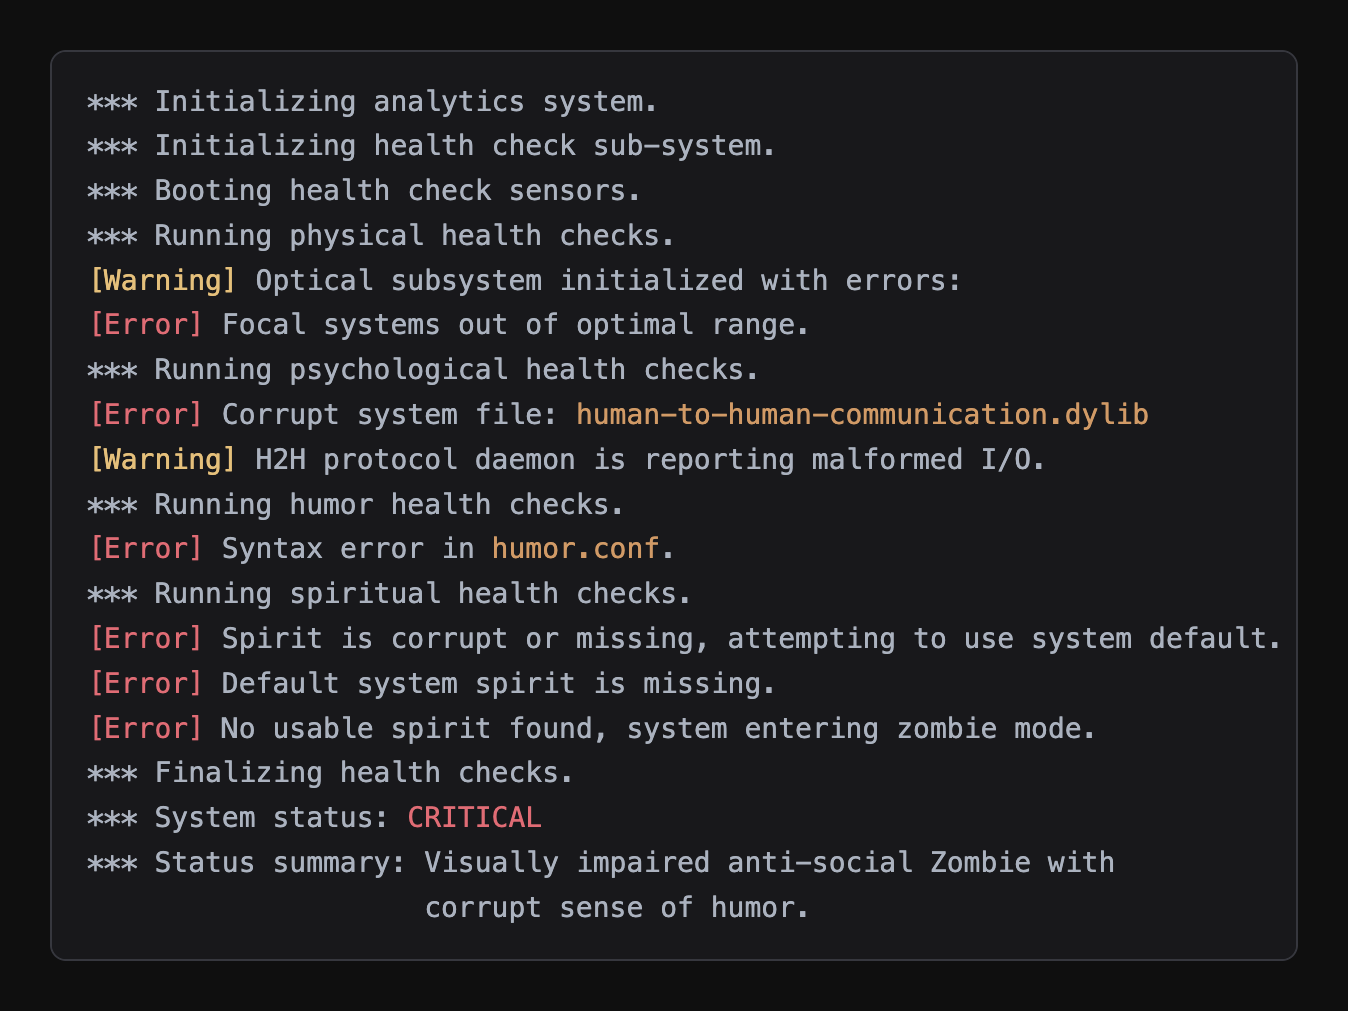
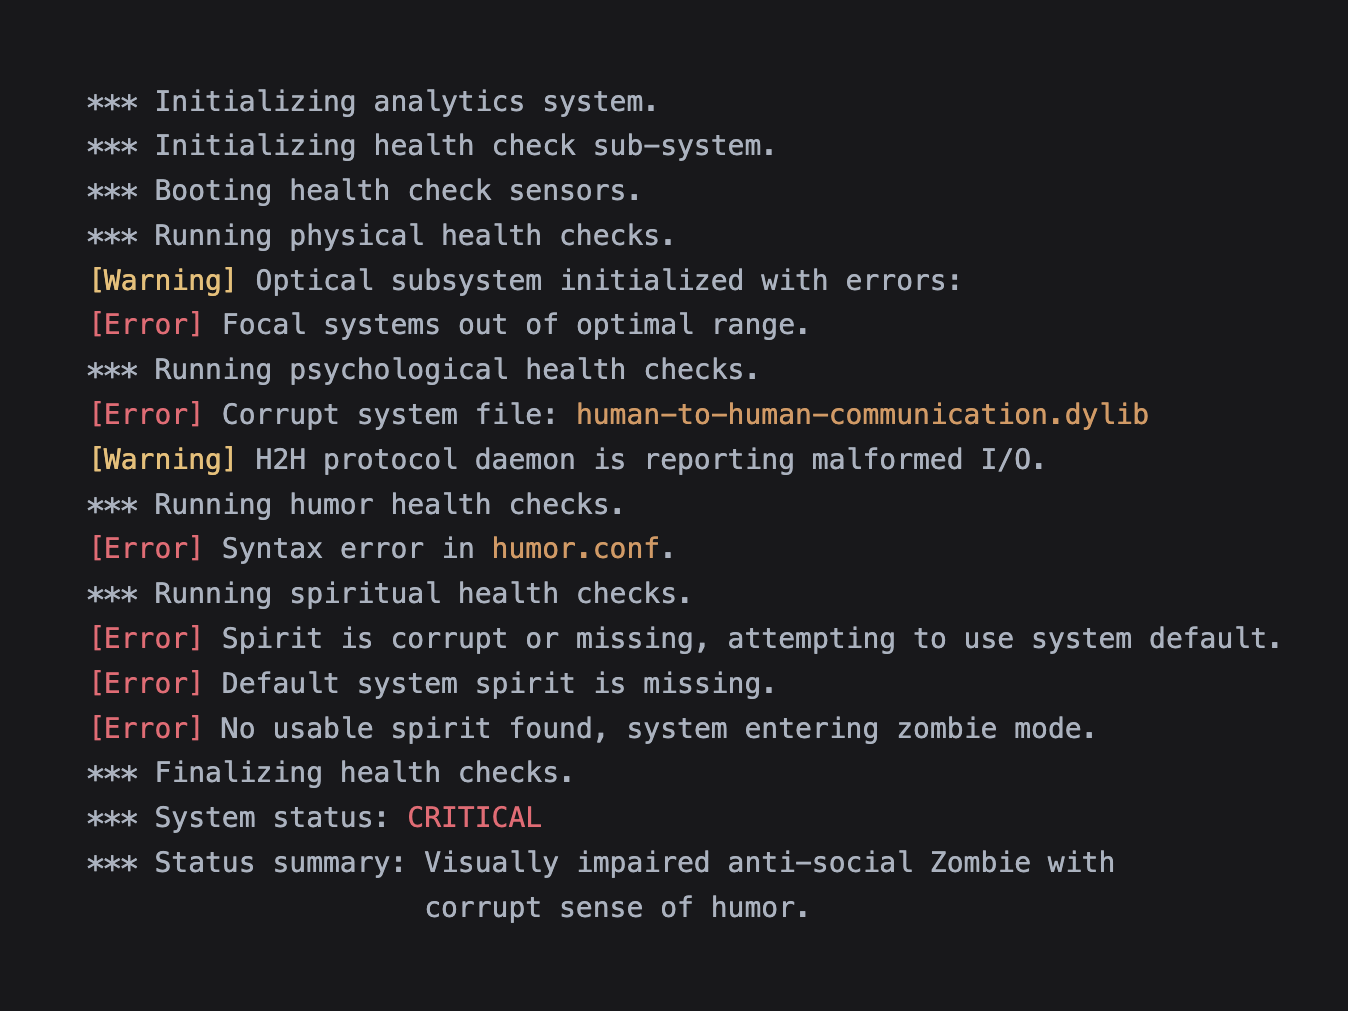
feat: support oversized MDX figures
Some post content needs more precise width control than the fixed wide figure
preset allows. Let centered percentage-sized Figure components exceed 100% while
staying centered and capped to the viewport gutter.

Also reset nested pretty-code margins for fenced code blocks inside Figure,
allow all MDX components in Markdownlint, and convert the How Are You post to
MDX so its log block can use the Figure layout controls.

diff --git a/src/components/mdx/Figure.css b/src/components/mdx/Figure.css
@@ -14,6 +14,11 @@
   border-radius: 0;
 }
 
+.mdx-figure-oversize {
+  width: var(--mdx-figure-width);
+  margin-left: calc(50% - var(--mdx-figure-width) / 2);
+}
+
 /* Figure wrapper used by MDX components (Image, YouTube, ImageGrid). */
 .mdx-figure {
   --mdx-figure-float-gutter: 1.5rem;
@@ -25,6 +30,14 @@
   max-width: 100%;
   height: auto;
   border-radius: 0.375rem;
+}
+
+.mdx-figure > [data-rehype-pretty-code-figure] {
+  margin: 0;
+}
+
+.mdx-figure > [data-rehype-pretty-code-figure] pre {
+  margin-block: 0;
 }
 
 .mdx-figure-float-left {

diff --git a/docs/blog-content.md b/docs/blog-content.md
@@ -137,7 +137,7 @@ plain Markdown images.
 MDX media components are exported from `@mdx/index`:
 
 ```mdx
-import { Image, ImageGrid, YouTube } from "@mdx/index";
+import { Figure, Image, ImageGrid, YouTube } from "@mdx/index";
 import hero from "./hero.webp";
 ```
 
@@ -174,7 +174,25 @@ Percentage-sized `Image` and `Figure` components can float with
 `position="left"` or `position="right"`. Use `overhang="50%"` to hang half the
 figure outside the content boundary on desktop. `overhang="outside"` and
 `overhang="100%"` place the figure fully outside with the normal text gutter;
-mobile ignores overhang.
+mobile ignores overhang. Centered percentages above `100%`, such as
+`size="120%"`, expand outside the content column like `wide`, capped to the
+viewport with the normal page gutter.
+
+Wrap a normal fenced code block in `Figure` when it needs the same layout
+controls. The code block still goes through `rehype-pretty-code` and keeps the
+standard syntax highlighting and copy button behavior:
+
+````mdx
+<Figure size="120%">
+
+```js
+function getStringLength(str) {
+  return str.length;
+}
+```
+
+</Figure>
+````
 
 ### ImageGrid
 
